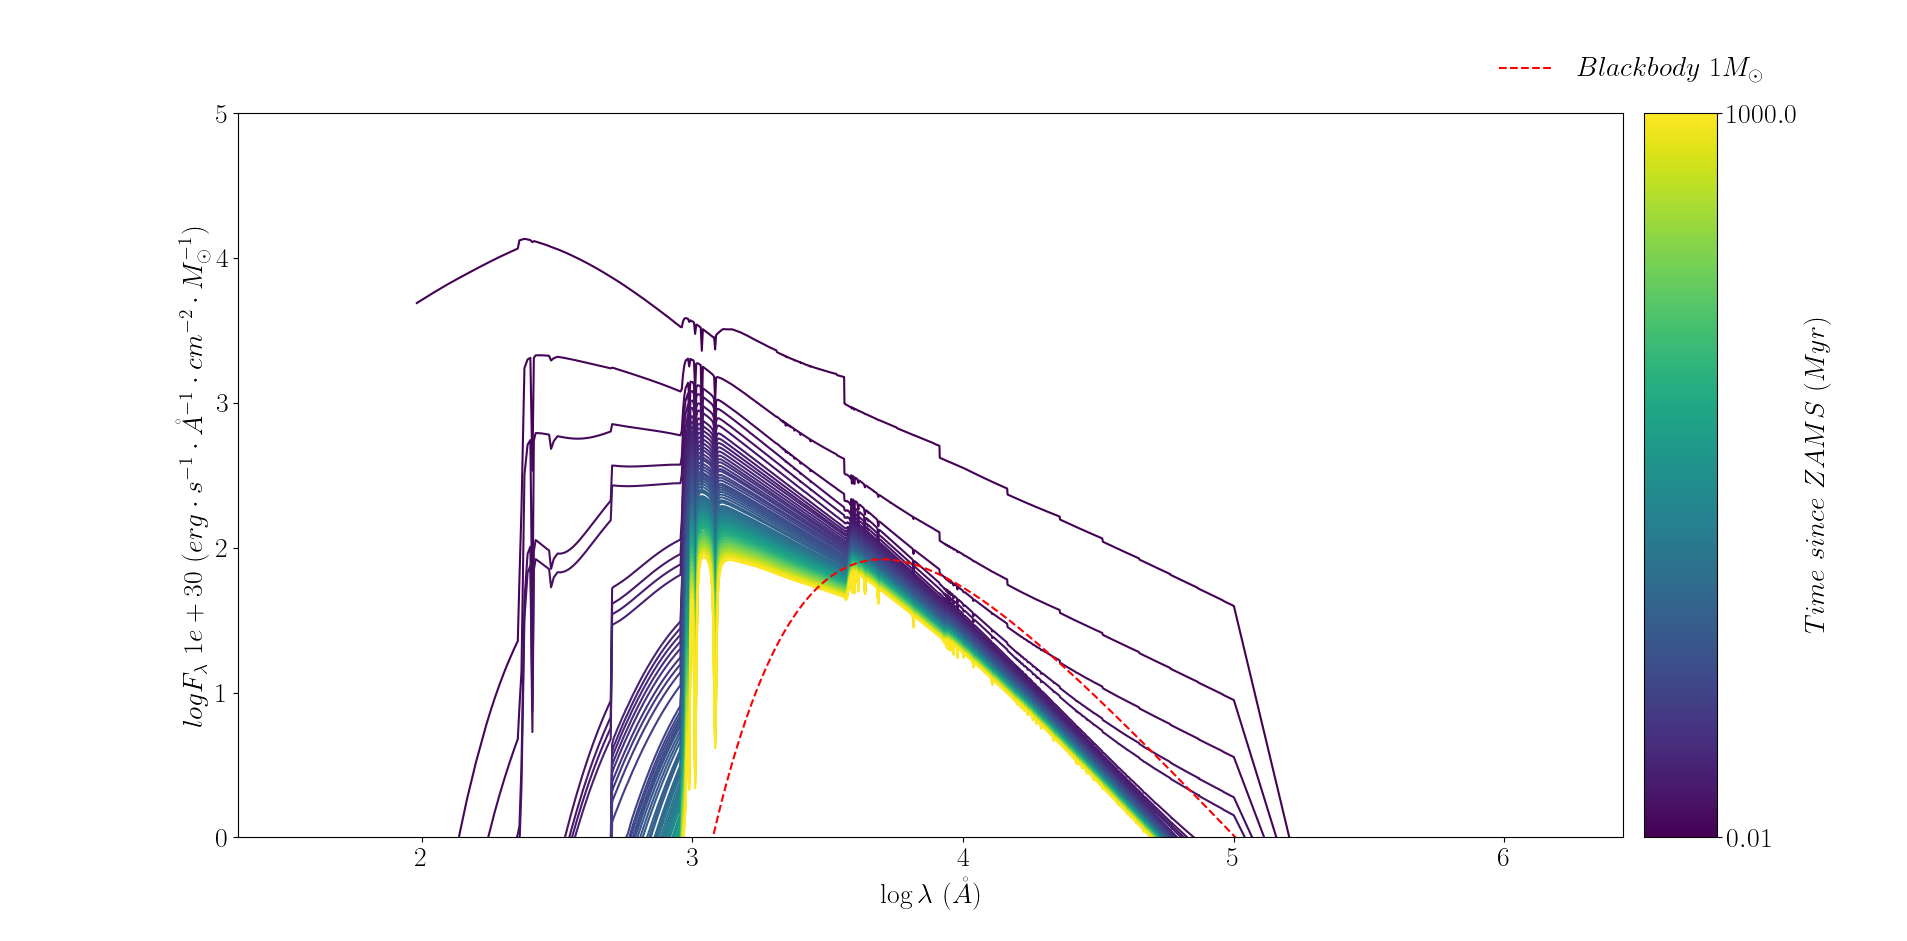
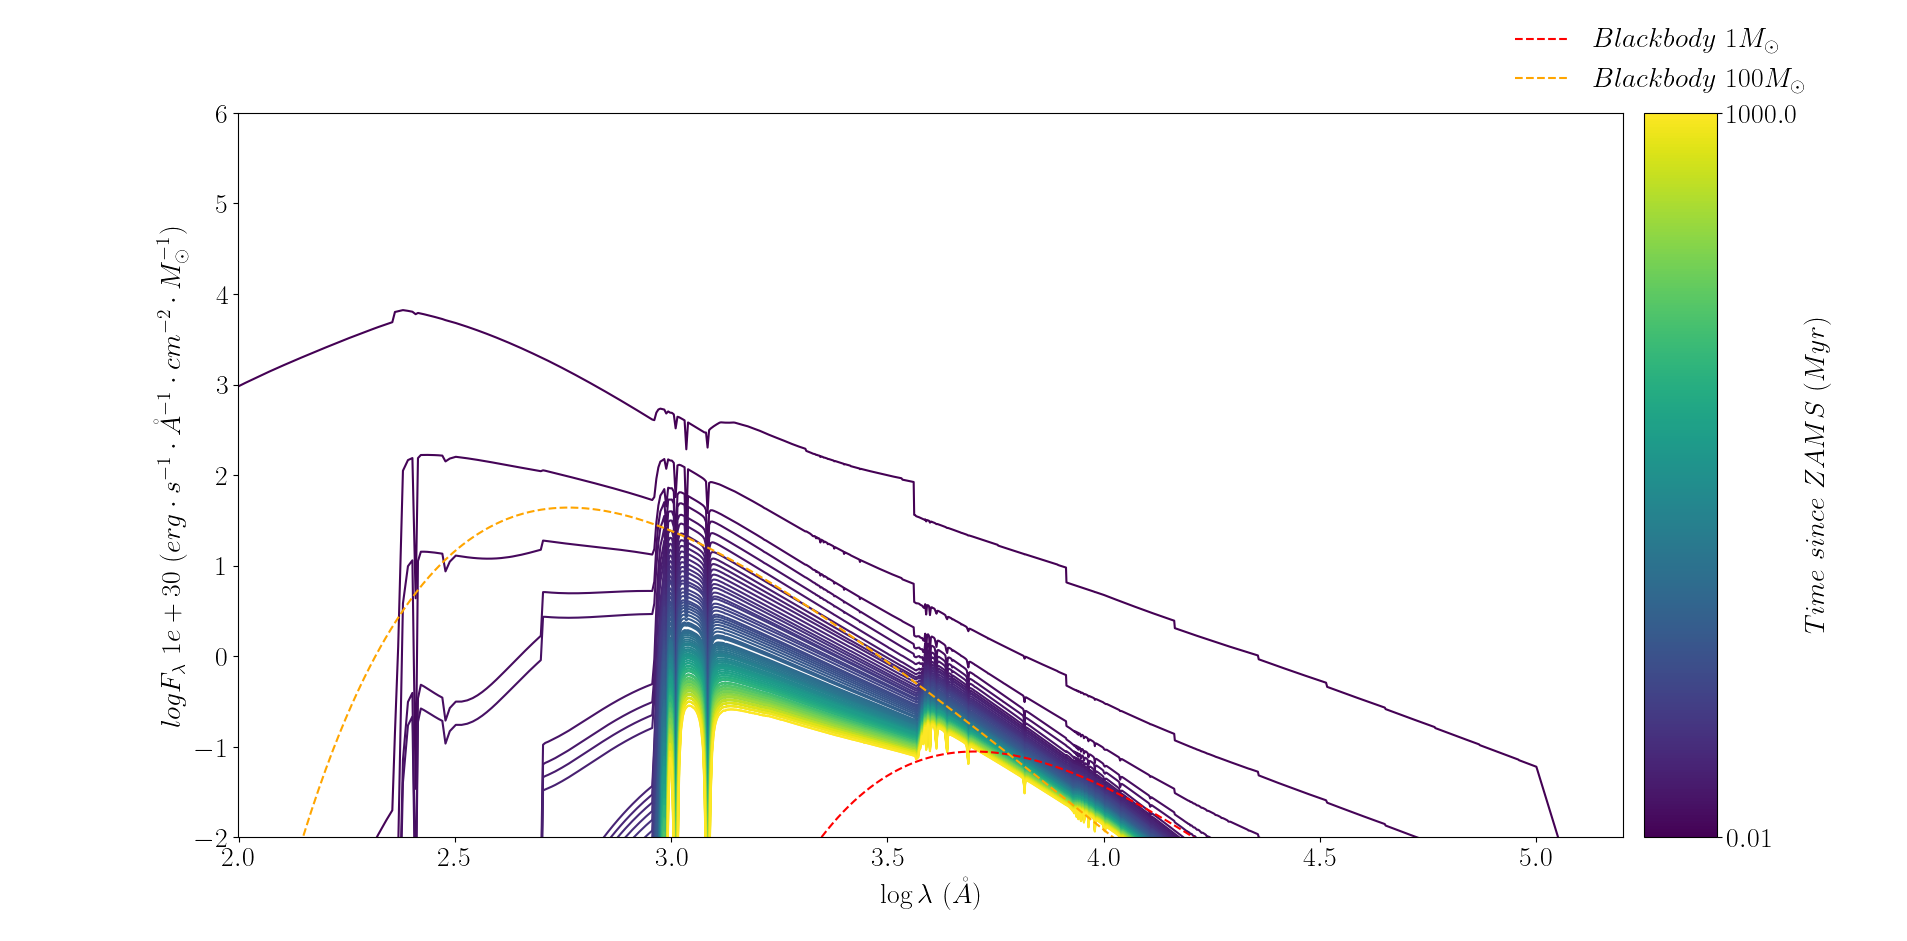
sunday

diff --git a/spectra_plotting.py b/spectra_plotting.py
@@ -18,10 +18,15 @@ plt.rcParams["legend.frameon"] = False
 
 ### CONSTANTS USED ###
 T_sun = 5772 #k
-kb = 1.38*10**(-23)
-c = 3*10**8
-h = 6.63*10**(-34)
+kb = 1.38*10**(-16)
+c = 3*10**10
+h = 6.63*10**(-27)
 T_100M = 10**(4.7)
+pc = 3.08*10**18
+AU = 1.496*10**13
+d = 1 * AU
+R_sun = 6.957*10**10
+
 
 ### VARIABLES (unchanged as of 07/10/25)  ###
 ttt = 'ge0' #Options - ge0: no mass loss, mdt: with mass loss
@@ -33,7 +38,7 @@ sfh = 'is5'
 
 n_single = 31 #SED of population (single plotting)
 
-n_array = np.linspace(31,1030, 93, dtype='int') # SED (multiple plotting)
+n_array = np.linspace(31,1030, 999, dtype='int') # SED (multiple plotting)
 
 
 ### FUNCTION FOR SINGLE LINE PLOT ####
@@ -50,16 +55,17 @@ def single_plotting(n_single):
         age_data = (10**(age_data))*10**(-6)
         data = ascii.read(file_loc,guess = True, data_start = 2)
         wavelength = data['col1']
-        total_flux = data['col2']
-        log_flux = np.log10(total_flux / (((1.496*10**13)**2)))
-        log_flux = log_flux / (1.99*10**30)
+        total_flux = data['col3']
+        total_flux = total_flux / (4*np.pi*(d**2)*(1.989*10**33))
+        log_flux = np.log10(total_flux)
+        log_flux = log_flux
 
         #PLOT 1: logf vs lambda
         plt.figure()
-        plt.plot(lambda_sun, log_B * (10**30), label = "\(Blackbody\ 1M_{\odot}\)", linestyle = '--', color = 'red', zorder = 2)
-        plt.plot(wavelength, log_flux*(10**30),c='darkblue',label = f'\({age_data} Myr\ since\ ZAMS\)', zorder = 1)
+        plt.plot(lambda_sun, log_B+30, label = "\(Blackbody\ 1M_{\odot}\)", linestyle = '--', color = 'red', zorder = 2)
+        plt.plot(wavelength, log_flux+30,c='darkblue',label = f'\({age_data} Myr\ since\ ZAMS\)', zorder = 1)
         #plt.xlim(0,7500)
-        plt.ylim(0,6)
+        #plt.ylim(0,8)
         plt.xlim(0,6500)
         plt.xlabel("\(\lambda (\mathring{A})\)")
         plt.ylabel("\(logF_{\lambda}\ 1e+30\ (erg \cdot s^{-1} \cdot \mathring{A}^{-1} \cdot cm^{-2} \cdot M_{\odot}^{-1})\)")
@@ -68,11 +74,11 @@ def single_plotting(n_single):
 
         #PLOT 2: logf vs loglambda
         plt.figure()
-        plt.plot(np.log10(lambda_sun), log_B * (10**30), label = "\(Blackbody\ 1M_{\odot}\)", linestyle = '--', color = 'red', zorder = 2)
-        plt.plot(np.log10(wavelength), log_flux*(10**30),c='darkblue',label = f'\({age_data} Myr\ since\ ZAMS\)', zorder = 1)
+        plt.plot(np.log10(lambda_sun), log_B+ 30, label = "\(Blackbody\ 1M_{\odot}\)", linestyle = '--', color = 'red', zorder = 2)
+        plt.plot(np.log10(wavelength), log_flux + 30,c='darkblue',label = f'\({age_data} Myr\ since\ ZAMS\)', zorder = 1)
         #plt.xlim(0,7500)
-        plt.ylim(0,6)
-        plt.xlim(2,5)
+        plt.ylim(0,8)
+        plt.xlim(2,5.3)
         plt.xlabel("\(\log{\lambda}\ (\mathring{A})\)")
         plt.ylabel("\(logF_{\lambda}\ 1e+30\ (erg \cdot s^{-1} \cdot \mathring{A}^{-1} \cdot cm^{-2} \cdot M_{\odot}^{-1})\)")
         plt.legend(bbox_to_anchor = [0.85,1], ncols = 2)
@@ -83,7 +89,7 @@ def single_plotting(n_single):
 def multiple_plotting(n_array):
     #PLOT 1: logf vs lambda
     fig,(ax1,ax2) = plt.subplots(1,2,width_ratios=[0.95,0.05])
-    ax1.plot(lambda_sun, log_B*(10**30), label = '\(Blackbody\ 1M_{\odot}\)', linestyle = '--', color='red', zorder = 2)
+    ax1.plot(lambda_sun, log_B + 30, label = '\(Blackbody\ 1M_{\odot}\)', linestyle = '--', color='red', zorder = 2)
     colour = plt.cm.viridis(np.linspace(0,1,len(n_array)))
     cmap = 'viridis'
     norm = Normalize(0,max(n_array))
@@ -100,16 +106,16 @@ def multiple_plotting(n_array):
             data = ascii.read(file_loc,guess = True, data_start = 2)
             wavelength = data['col1']
             total_flux = data['col3']
-            log_flux = np.log10(total_flux / (((1.496*10**13)**2)))
-            log_flux = log_flux / (1.99*10**30)
-            ax1.plot(wavelength, log_flux*(10**30),c=colour[i], zorder = 1)
+            total_flux = total_flux / (4*np.pi*(d**2)*(1.99*10**33))
+            log_flux = np.log10(total_flux)
+            ax1.plot(wavelength, log_flux + 30,c=colour[i], zorder = 1)
     all_ages_raw = []
     for i in range(len(all_ages)):
         all_ages_raw.append((10**(-6))*10**(all_ages[i]))
     ax1.set_xlim(0,7500)
     ax1.set_xlabel("\(\lambda (\mathring{A})\)")
     ax1.set_ylabel("\(logF_{\lambda}\ 1e+30\ (erg \cdot s^{-1} \cdot \mathring{A}^{-1} \cdot cm^{-2} \cdot M_{\odot}^{-1})\)")
-    ax1.set_ylim(0,5)
+    ax1.set_ylim(0,8)
     ax1.legend(bbox_to_anchor = [1.15,1.11])
     plt.colorbar(bar,cax=ax2,location = 'right', orientation = 'vertical')
     labels = [f'\({min(all_ages_raw)}\)', f'\({max(all_ages_raw)}\)']
@@ -119,8 +125,8 @@ def multiple_plotting(n_array):
 
     #PLOT 2: f vs lambda
     fig,(ax1,ax2) = plt.subplots(1,2,width_ratios=[0.95,0.05])
-    ax1.plot(np.log10(lambda_sun), log_B*(10**30), label = '\(Blackbody\ 1M_{\odot}\)', linestyle = '--', color='red', zorder = 2)
-    ax1.plot(np.log10(lambda_blackbody), log_blackbody*(10**30), label = '\(Blackbody\ 100M_{\odot}\)', linestyle = '--', color = 'orange', zorder = 2)
+    ax1.plot(np.log10(lambda_sun), log_B + 30, label = '\(Blackbody\ 1M_{\odot}\)', linestyle = '--', color='red', zorder = 2)
+    ax1.plot(np.log10(lambda_blackbody), log_blackbody + 30, label = '\(Blackbody\ 100M_{\odot}\)', linestyle = '--', color = 'orange', zorder = 2)
     colour = plt.cm.viridis(np.linspace(0,1,len(n_array)))
     cmap = 'viridis'
     norm = Normalize(0,max(n_array))
@@ -137,17 +143,17 @@ def multiple_plotting(n_array):
             data = ascii.read(file_loc,guess = True, data_start = 2)
             wavelength = data['col1']
             total_flux = data['col3']
-            log_flux = np.log10(total_flux / (((1.496*10**13)**2)))
-            log_flux = log_flux / (1.99*10**30)
-            ax1.plot(np.log10(wavelength), log_flux*(10**30),c=colour[i], zorder = 1)
+            total_flux = total_flux / (4*np.pi*(d**2)*(1.99*10**33))
+            log_flux = np.log10(total_flux)
+            ax1.plot(np.log10(wavelength), log_flux + 30 ,c=colour[i], zorder = 1)
     all_ages_raw = []
     for i in range(len(all_ages)):
         all_ages_raw.append((10**(-6))*10**(all_ages[i]))
     #ax1.set_xlim(0,7500)
     ax1.set_xlabel("\(\log{\lambda}\ (\mathring{A})\)")
     ax1.set_ylabel("\(logF_{\lambda}\ 1e+30\ (erg \cdot s^{-1} \cdot \mathring{A}^{-1} \cdot cm^{-2} \cdot M_{\odot}^{-1})\)")
-    ax1.set_ylim(0,5)
-    ax1.set_xlim(2,5.5)
+    ax1.set_ylim(-2,6)
+    ax1.set_xlim(2,5.2)
     ax1.legend(bbox_to_anchor = [1.15,1.15])
     plt.colorbar(bar,cax=ax2,location = 'right', orientation = 'vertical')
     labels = [f'\({min(all_ages_raw)}\)', f'\({max(all_ages_raw)}\)']
@@ -159,21 +165,21 @@ def multiple_plotting(n_array):
 ### FUNCTION FOR SUN TYPE STAR ###
 def sun_type_star():
     lambda_sun = np.linspace(0, 300000 , 1*10**5) #angstrom
-    lambda_sun_m = lambda_sun * 1*10**(-10)
-    B = ((2*h*c**2)/(lambda_sun_m**5))*(1/(np.exp(h*c/(lambda_sun_m*kb*T_sun)) - 1))
-    B = B*(10**(-8)) / (4 * (np.pi**2))
-    log_B = np.log10(B)# (((1.496*10**13)**2)))
-    log_B = log_B / (1.99*10**30)
+    lambda_sun_cm = lambda_sun * 1*10**(-8)
+    B = ((2*h*c**2)/(lambda_sun_cm**5))*(1/(np.exp(h*c/(lambda_sun_cm*kb*T_sun)) - 1))
+    B = B * (1*10**(-8))
+    B = np.pi * B * (R_sun)**2 / ((d**2)*1.99*10**33)
+    log_B = np.log10(B)
     return lambda_sun, B, log_B
 
 ### FUNCTION FOR A MODEL BLACKBODY ###
 def blackbody(T):
     lambda_blackbody = np.linspace(0, 300000 , 1*10**5) #angstrom
-    lambda_blackbody_m = lambda_blackbody * 1*10**(-10)
+    lambda_blackbody_m = lambda_blackbody * 1*10**(-8)
     B = ((2*h*c**2)/(lambda_blackbody_m**5))*(1/(np.exp(h*c/(lambda_blackbody_m*kb*T)) - 1))
-    blackbody = B*(10**(-8)) / (4 * (np.pi**2))
-    log_B = np.log10(blackbody)# (((1.496*10**13)**2)))
-    log_blackbody = log_B / (1.99*10**30)
+    blackbody = B * (1*10**(-8))
+    blackbody = np.pi * blackbody* (R_sun*22)**2/ ((d**2)*100*1.99*10**33)
+    log_blackbody = np.log10(blackbody)
     return lambda_blackbody, blackbody, log_blackbody
     
    
